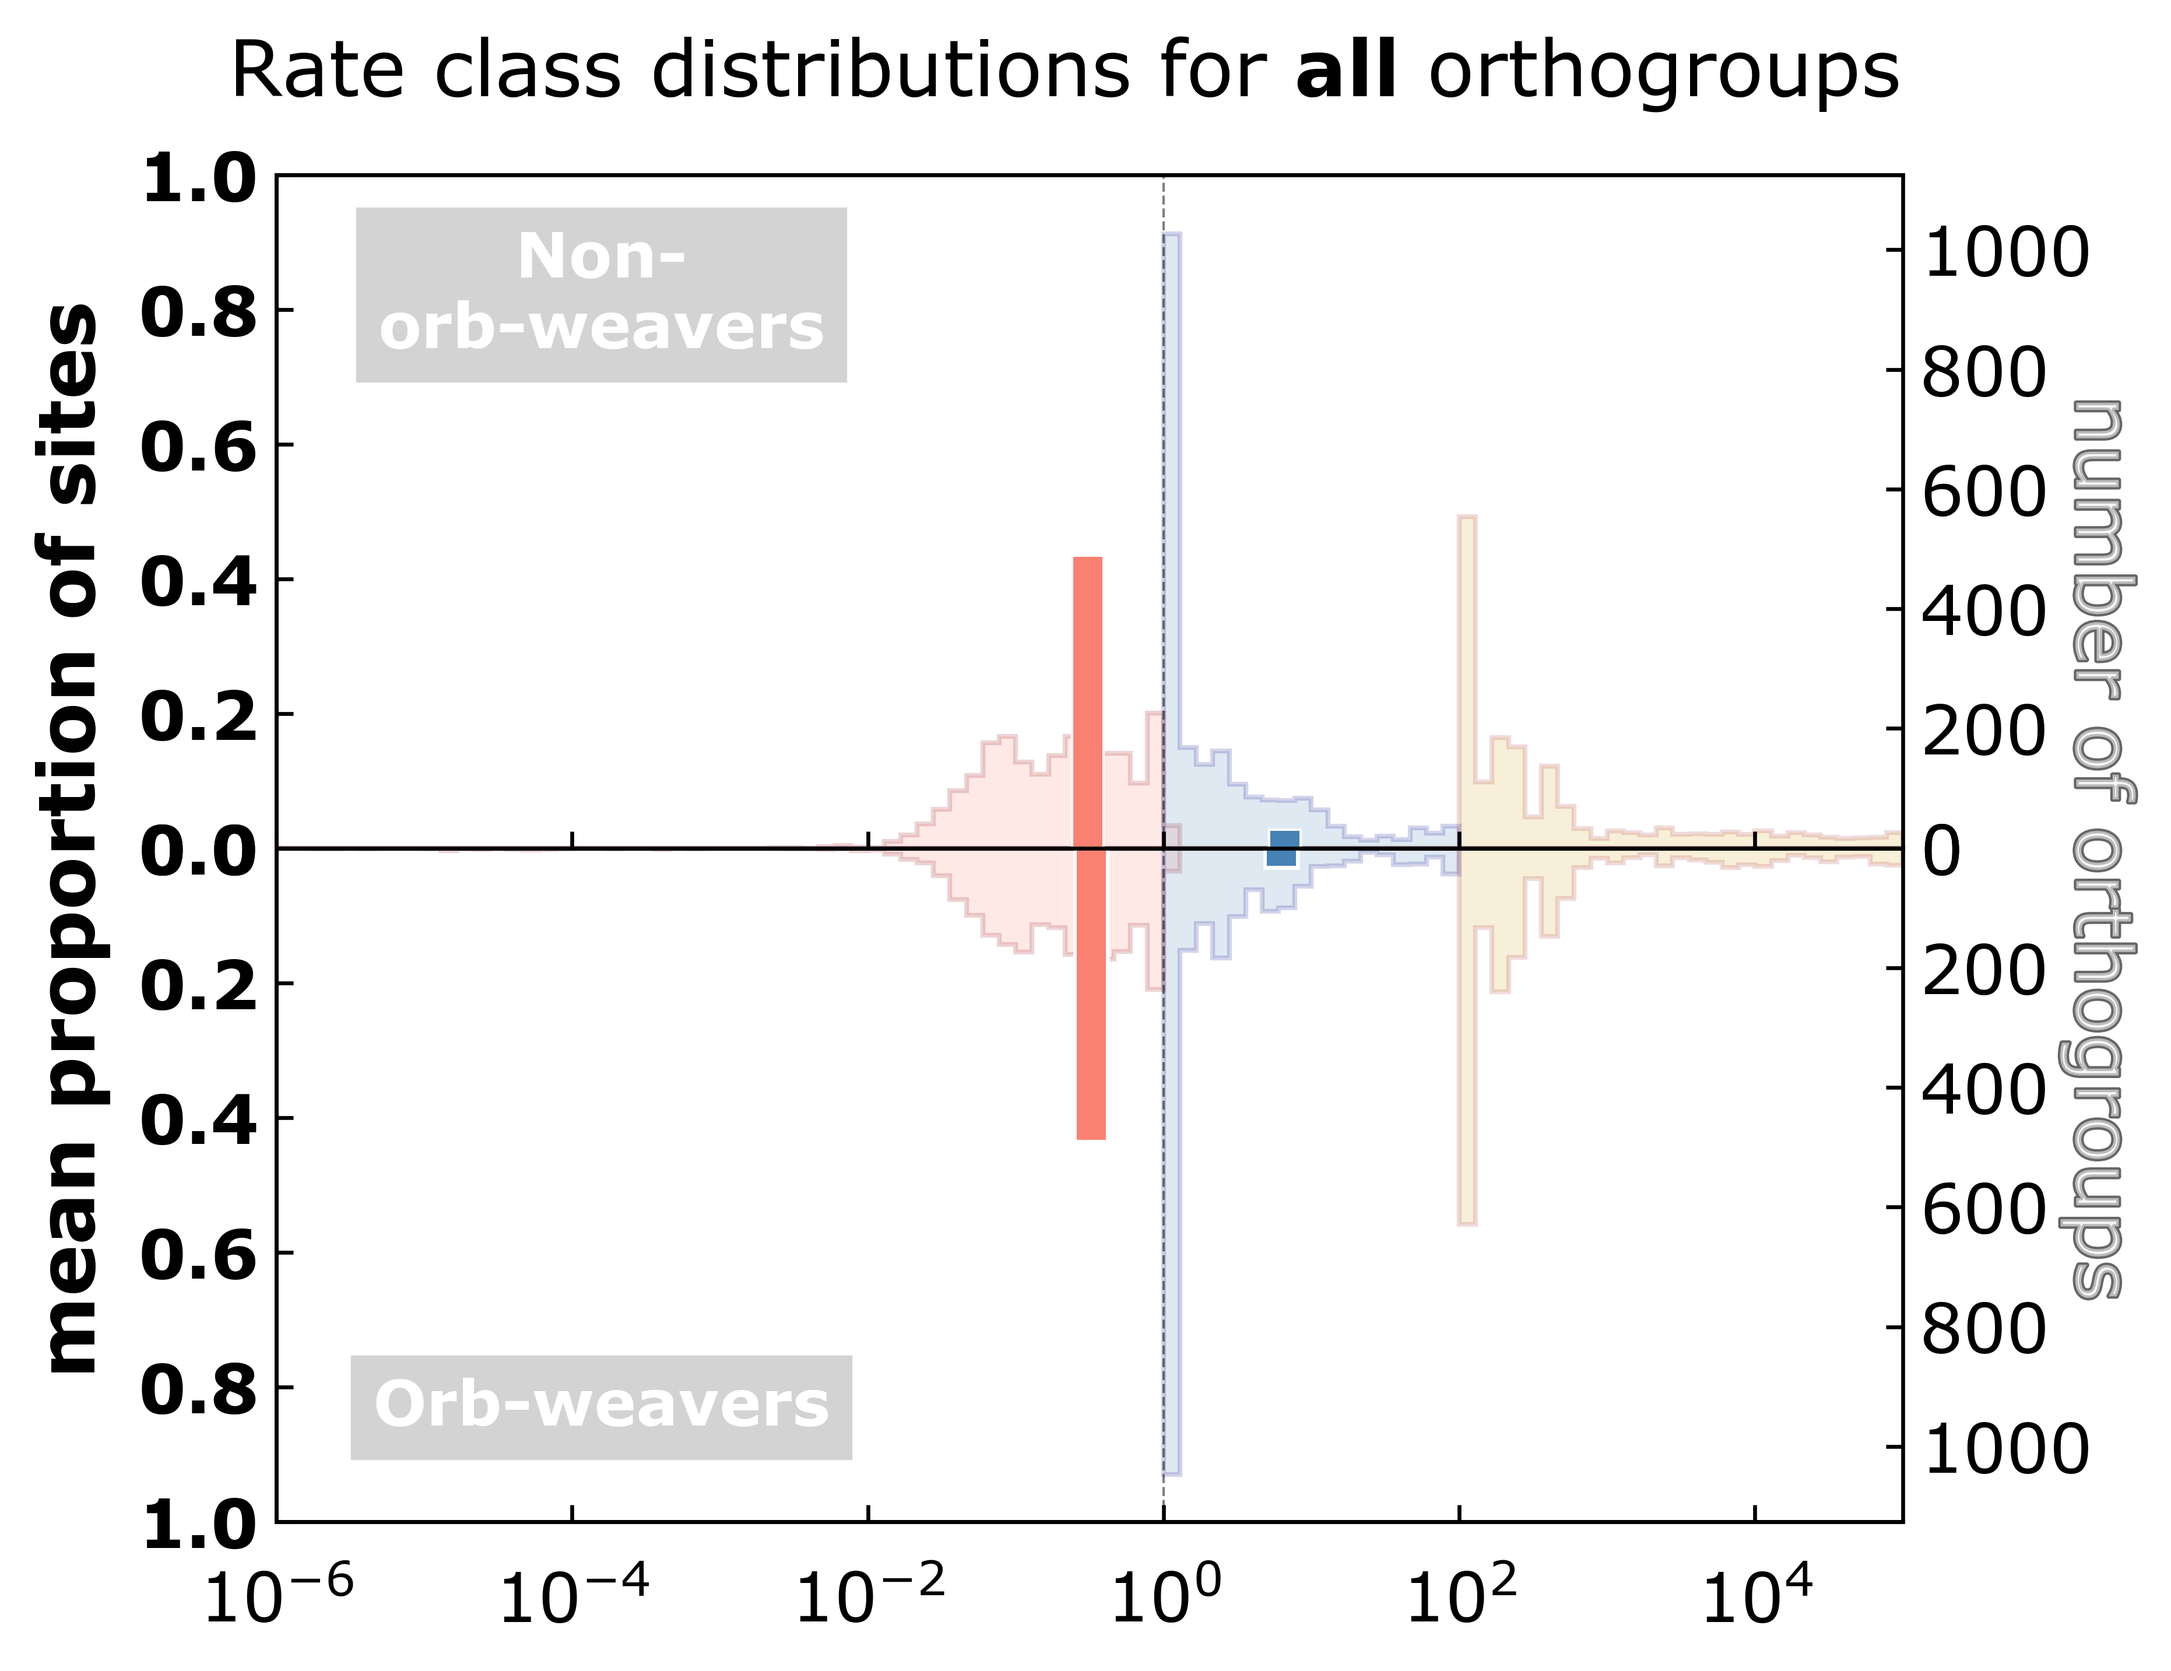
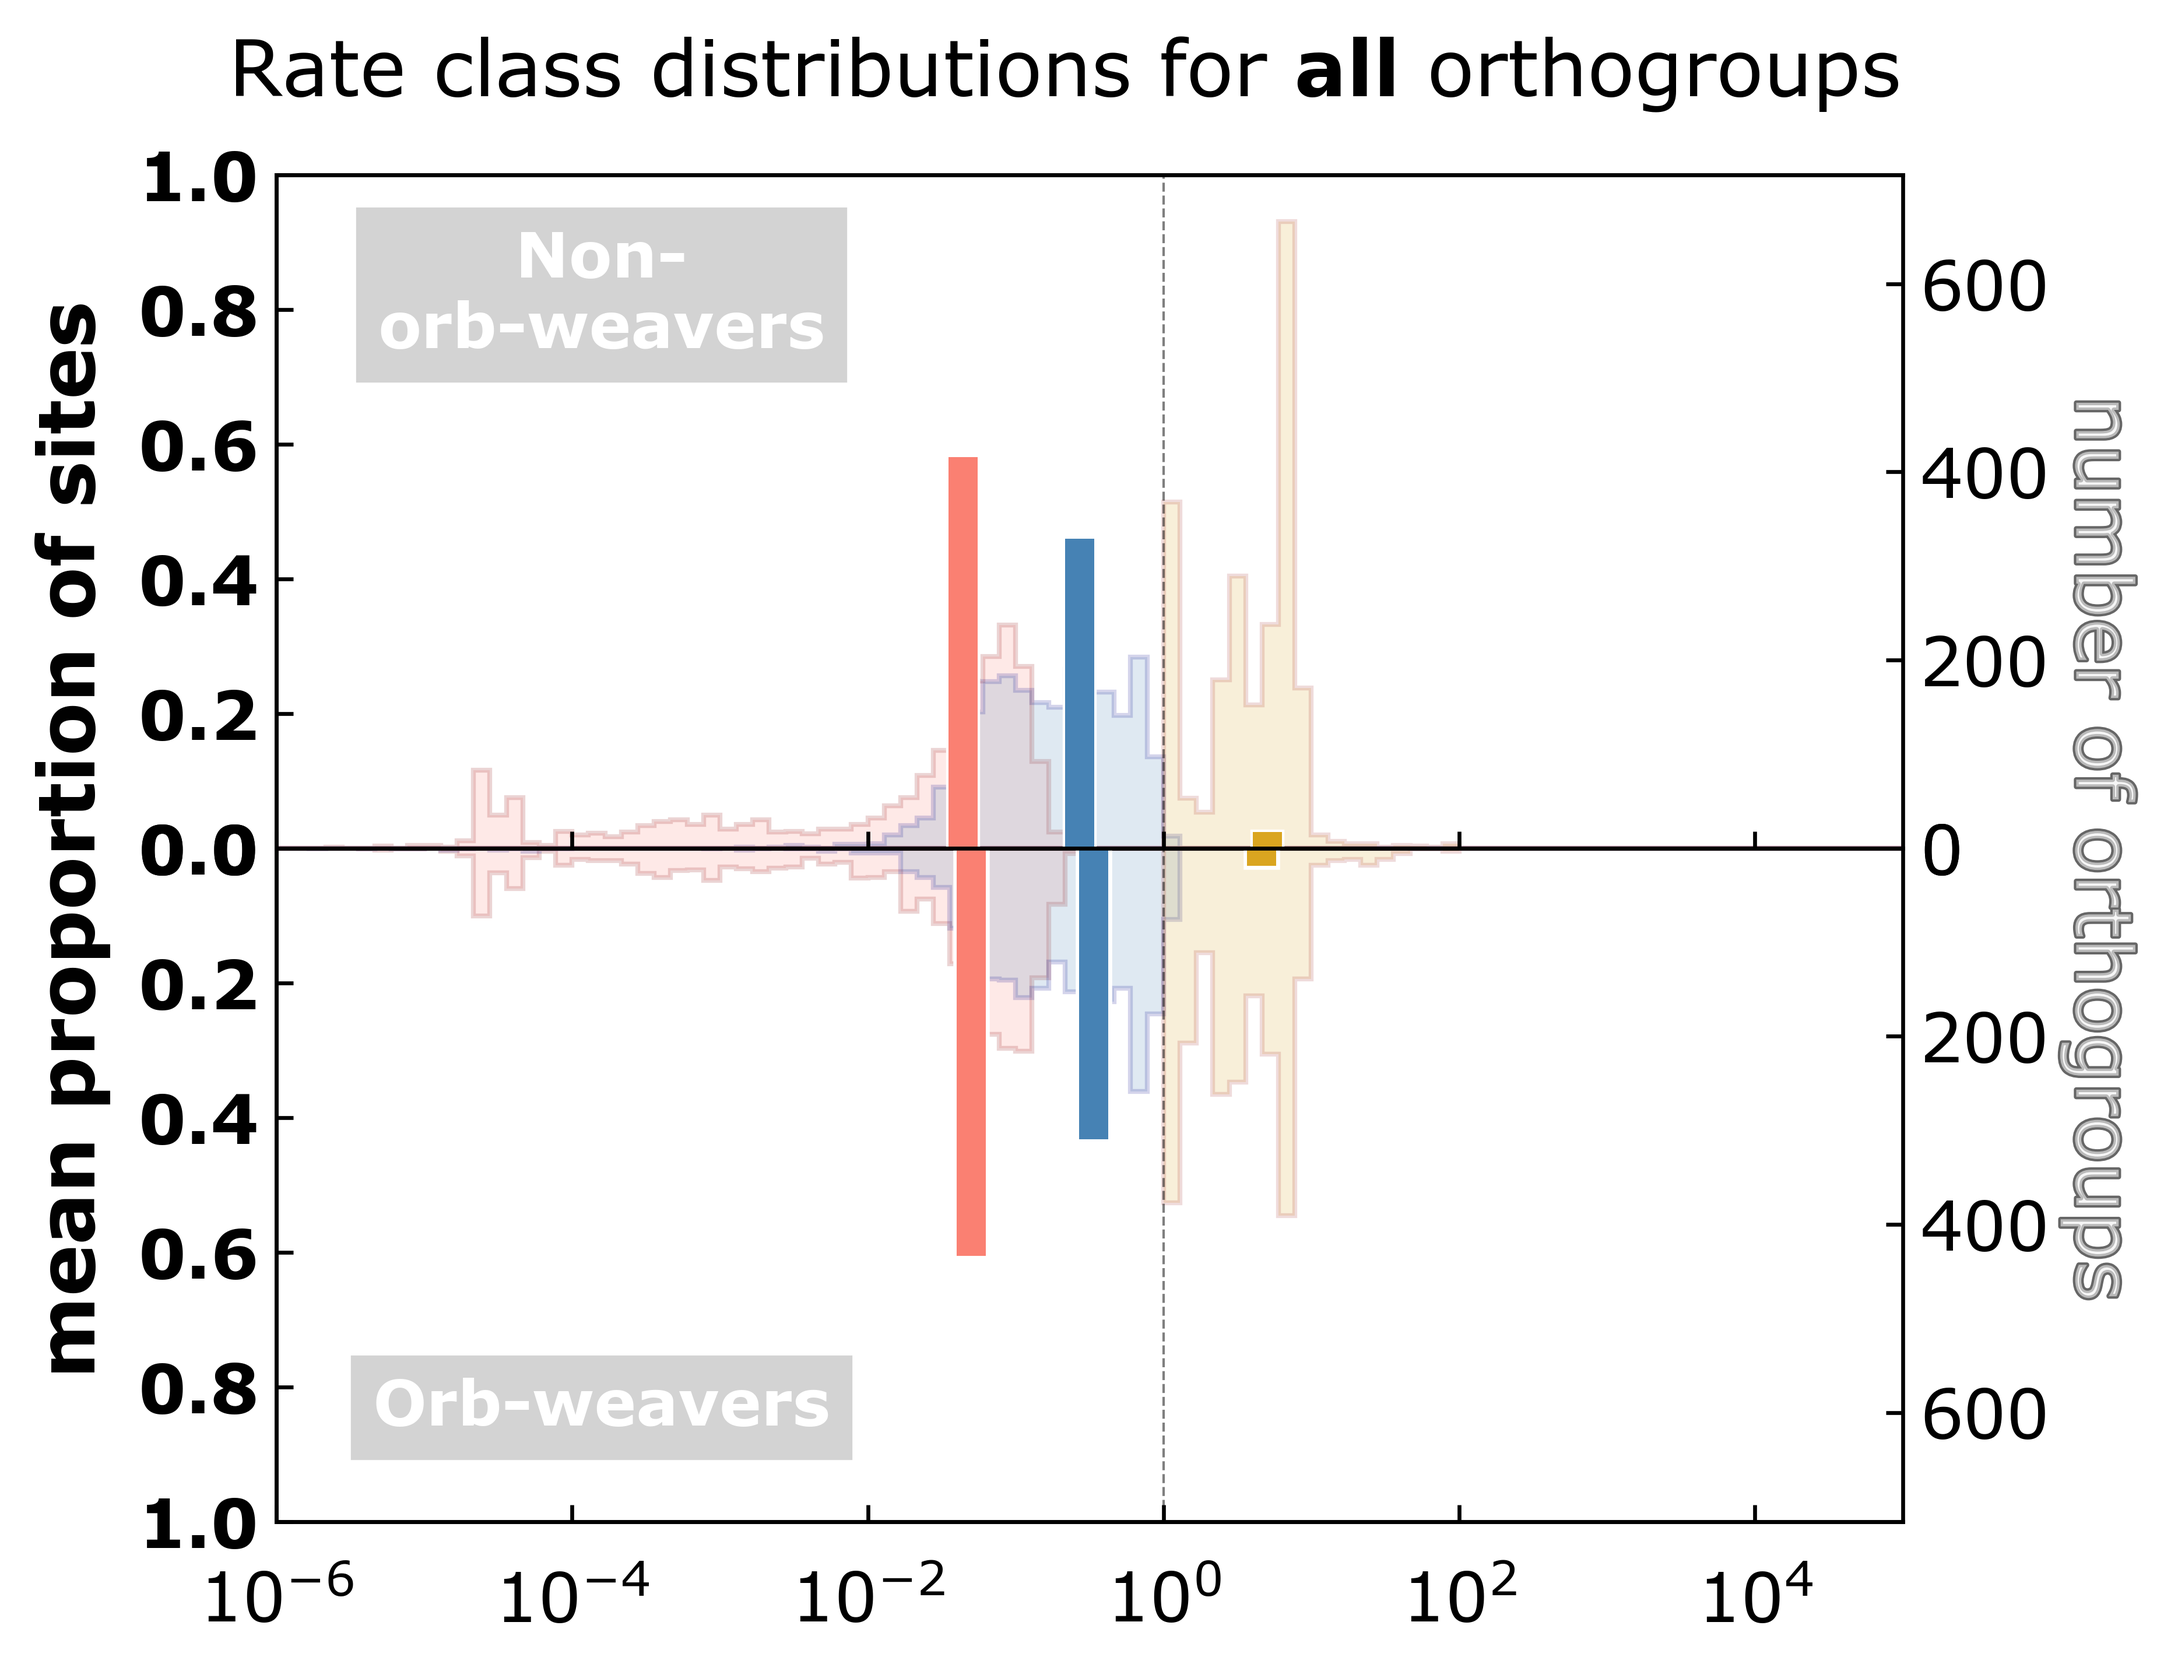
allow plotting partitioned descriptive model

diff --git a/scripts/07_figures_tables/omega_plots.py b/scripts/07_figures_tables/omega_plots.py
@@ -147,13 +147,20 @@ def plot_omega_distributions(
     xlim_min=0.001,
     shift_top_title=False,
     transparent=True,
+    groups=('test', 'ref'),
 ):
-    """Plot ω distributions and mean site proportions for test and reference."""
+    """Plot ω distributions and mean site proportions for test and reference.
+
+    `groups` names the test/reference column suffixes to plot, e.g. the default
+    ('test', 'ref') for the RELAX/BUSTED-PH alternative model, or
+    ('test_pd', 'ref_pd') for the RELAX partitioned descriptive model.
+    """
+    test_group, ref_group = groups
     logbins = np.geomspace(xlim_min, xlim_max, 100)
 
     y_limits = []
 
-    for group in ['test', 'ref']:
+    for group in groups:
         ω3_counts = np.histogram(x[f'ω3_{group}'], bins=logbins)[0]
         ω2_counts = np.histogram(x[f'ω2_{group}'], bins=logbins)[0]
 
@@ -174,13 +181,13 @@ def plot_omega_distributions(
     axs[1].set_ylim(0, np.max(y_limits))
     axs[1].invert_yaxis()
 
-    _plot_distributions(axs[0], x, 'test', logbins)
-    _plot_distributions(axs[1], x, 'ref', logbins, labels=True)
+    _plot_distributions(axs[0], x, test_group, logbins)
+    _plot_distributions(axs[1], x, ref_group, logbins, labels=True)
 
     ax_avgs = axs[0].twinx()
     ax_avgs.set_facecolor('none')
     _plot_mean_lines(
-        ax_avgs, x, 'test', stroke_width=7.5 if result == 'busted' else 7
+        ax_avgs, x, test_group, stroke_width=7.5 if result == 'busted' else 7
     )
     ax_avgs.spines.right.set_visible(False)
 
@@ -190,7 +197,7 @@ def plot_omega_distributions(
     _plot_mean_lines(
         ax_avgs2,
         x,
-        'ref',
+        ref_group,
         inverted=True,
         stroke_width=7 if result == 'busted' else 7.5,
     )
@@ -304,35 +311,42 @@ def plot_omega_single_gene(
     zorder_2test=1,
     zorder_3test=1,
     axis_fontsize=14,
+    groups=('test', 'ref'),
 ):
-    """Plot inferred ω values and site proportions for one gene."""
+    """Plot inferred ω values and site proportions for one gene.
+
+    `groups` names the test/reference column suffixes to plot, e.g. the default
+    ('test', 'ref') for the RELAX/BUSTED-PH alternative model, or
+    ('test_pd', 'ref_pd') for the RELAX partitioned descriptive model.
+    """
+    test_group, ref_group = groups
 
     x = df.loc[gene]
 
     fig, ax = plt.subplots(figsize=(5.5, 5))
 
     # Collapse numerical near-zero estimates so they share the zero position.
-    if x['ω1_ref'] < 1e-9:
-        x['ω1_ref'] = 0
+    if x[f'ω1_{ref_group}'] < 1e-9:
+        x[f'ω1_{ref_group}'] = 0
 
-    if x['ω1_test'] < 1e-9:
-        x['ω1_test'] = 0
+    if x[f'ω1_{test_group}'] < 1e-9:
+        x[f'ω1_{test_group}'] = 0
 
     omega_values = np.asarray([
-        x['ω1_ref'], x['ω2_ref'], x['ω3_ref'],
-        x['ω1_test'], x['ω2_test'], x['ω3_test'],
+        x[f'ω1_{ref_group}'], x[f'ω2_{ref_group}'], x[f'ω3_{ref_group}'],
+        x[f'ω1_{test_group}'], x[f'ω2_{test_group}'], x[f'ω3_{test_group}'],
     ])
     has_zero = np.any(omega_values == 0)
 
-    if np.min([x['ω2_ref'], x['ω2_test']]) > 0:
-        if np.min([x['ω1_ref'], x['ω1_test']]) > 0:
-            thresh = np.min([x['ω1_ref'], x['ω1_test']]) * 0.1
-        elif np.max([x['ω1_ref'], x['ω1_test']]) > 0:
-            thresh = np.max([x['ω1_ref'], x['ω1_test']]) * 0.1
+    if np.min([x[f'ω2_{ref_group}'], x[f'ω2_{test_group}']]) > 0:
+        if np.min([x[f'ω1_{ref_group}'], x[f'ω1_{test_group}']]) > 0:
+            thresh = np.min([x[f'ω1_{ref_group}'], x[f'ω1_{test_group}']]) * 0.1
+        elif np.max([x[f'ω1_{ref_group}'], x[f'ω1_{test_group}']]) > 0:
+            thresh = np.max([x[f'ω1_{ref_group}'], x[f'ω1_{test_group}']]) * 0.1
         else:
-            thresh = np.min([x['ω2_ref'], x['ω2_test']]) * 0.1
-    elif np.max([x['ω2_ref'], x['ω2_test']]) > 0:
-        thresh = np.max([x['ω2_ref'], x['ω2_test']]) * 0.1
+            thresh = np.min([x[f'ω2_{ref_group}'], x[f'ω2_{test_group}']]) * 0.1
+    elif np.max([x[f'ω2_{ref_group}'], x[f'ω2_{test_group}']]) > 0:
+        thresh = np.max([x[f'ω2_{ref_group}'], x[f'ω2_{test_group}']]) * 0.1
     else:
         thresh = 0.01
 
@@ -359,9 +373,9 @@ def plot_omega_single_gene(
     ]
 
     ax.vlines(
-        x['ω1_ref'],
+        x[f'ω1_{ref_group}'],
         0,
-        _visible_proportion(x['ω1_ref_P'], ax),
+        _visible_proportion(x[f'ω1_{ref_group}_P'], ax),
         linewidth=20,
         color='salmon',
         alpha=0.17,
@@ -371,12 +385,12 @@ def plot_omega_single_gene(
         ),
     )
     _plot_tiny_proportion_marker(
-        ax, x['ω1_ref'], x['ω1_ref_P'], 'salmon', alpha=0.17
+        ax, x[f'ω1_{ref_group}'], x[f'ω1_{ref_group}_P'], 'salmon', alpha=0.17
     )
     ax.vlines(
-        x['ω2_ref'],
+        x[f'ω2_{ref_group}'],
         0,
-        _visible_proportion(x['ω2_ref_P'], ax),
+        _visible_proportion(x[f'ω2_{ref_group}_P'], ax),
         linewidth=20,
         color='steelblue',
         alpha=0.17,
@@ -386,12 +400,12 @@ def plot_omega_single_gene(
         ),
     )
     _plot_tiny_proportion_marker(
-        ax, x['ω2_ref'], x['ω2_ref_P'], 'steelblue', alpha=0.17
+        ax, x[f'ω2_{ref_group}'], x[f'ω2_{ref_group}_P'], 'steelblue', alpha=0.17
     )
     ax.vlines(
-        x['ω3_ref'],
+        x[f'ω3_{ref_group}'],
         0,
-        _visible_proportion(x['ω3_ref_P'], ax),
+        _visible_proportion(x[f'ω3_{ref_group}_P'], ax),
         linewidth=20,
         color='goldenrod',
         alpha=0.17,
@@ -399,7 +413,7 @@ def plot_omega_single_gene(
         path_effects=ref_path_effects
     )
     _plot_tiny_proportion_marker(
-        ax, x['ω3_ref'], x['ω3_ref_P'], 'goldenrod', alpha=0.3
+        ax, x[f'ω3_{ref_group}'], x[f'ω3_{ref_group}_P'], 'goldenrod', alpha=0.3
     )
 
     test_alpha = 1
@@ -408,9 +422,9 @@ def plot_omega_single_gene(
     ]
 
     ax.vlines(
-        x['ω1_test'],
+        x[f'ω1_{test_group}'],
         0,
-        _visible_proportion(x['ω1_test_P'], ax),
+        _visible_proportion(x[f'ω1_{test_group}_P'], ax),
         linewidth=20,
         color='salmon',
         alpha=test_alpha,
@@ -418,12 +432,12 @@ def plot_omega_single_gene(
         path_effects=test_effects,
     )
     _plot_tiny_proportion_marker(
-        ax, x['ω1_test'], x['ω1_test_P'], 'salmon', alpha=1
+        ax, x[f'ω1_{test_group}'], x[f'ω1_{test_group}_P'], 'salmon', alpha=1
     )
     ax.vlines(
-        x['ω2_test'],
+        x[f'ω2_{test_group}'],
         0,
-        _visible_proportion(x['ω2_test_P'], ax),
+        _visible_proportion(x[f'ω2_{test_group}_P'], ax),
         linewidth=20,
         color='steelblue',
         alpha=test_alpha,
@@ -431,12 +445,12 @@ def plot_omega_single_gene(
         path_effects=test_effects,
     )
     _plot_tiny_proportion_marker(
-        ax, x['ω2_test'], x['ω2_test_P'], 'steelblue', alpha=1
+        ax, x[f'ω2_{test_group}'], x[f'ω2_{test_group}_P'], 'steelblue', alpha=1
     )
     ax.vlines(
-        x['ω3_test'],
+        x[f'ω3_{test_group}'],
         0,
-        _visible_proportion(x['ω3_test_P'], ax),
+        _visible_proportion(x[f'ω3_{test_group}_P'], ax),
         linewidth=20,
         color='goldenrod',
         alpha=test_alpha,
@@ -444,7 +458,7 @@ def plot_omega_single_gene(
         path_effects=test_effects,
     )
     _plot_tiny_proportion_marker(
-        ax, x['ω3_test'], x['ω3_test_P'], 'goldenrod', alpha=1
+        ax, x[f'ω3_{test_group}'], x[f'ω3_{test_group}_P'], 'goldenrod', alpha=1
     )
 
     if not has_zero:
@@ -544,15 +558,19 @@ def plot_omega_single_gene(
         plt.savefig(filename, dpi=300, transparent=transparent)
 
     print(
-        f"ω values for {gene}: ω1_test={x['ω1_test']:.4f}, "
-        f"ω2_test={x['ω2_test']:.4f}, ω3_test={x['ω3_test']:.4f},\n"
-        f"ω1_ref={x['ω1_ref']:.4f}, ω2_ref={x['ω2_ref']:.4f}, "
-        f"ω3_ref={x['ω3_ref']:.4f};\n"
-        f"Proportions: ω1_test_P={x['ω1_test_P']:.4f}, "
-        f"ω2_test_P={x['ω2_test_P']:.4f}, "
-        f"ω3_test_P={x['ω3_test_P']:.4f},\n"
-        f"ω1_ref_P={x['ω1_ref_P']:.4f}, ω2_ref_P={x['ω2_ref_P']:.4f}, "
-        f"ω3_ref_P={x['ω3_ref_P']:.4f}"
+        f"ω values for {gene}: "
+        f"ω1_{test_group}={x[f'ω1_{test_group}']:.4f}, "
+        f"ω2_{test_group}={x[f'ω2_{test_group}']:.4f}, "
+        f"ω3_{test_group}={x[f'ω3_{test_group}']:.4f},\n"
+        f"ω1_{ref_group}={x[f'ω1_{ref_group}']:.4f}, "
+        f"ω2_{ref_group}={x[f'ω2_{ref_group}']:.4f}, "
+        f"ω3_{ref_group}={x[f'ω3_{ref_group}']:.4f};\n"
+        f"Proportions: ω1_{test_group}_P={x[f'ω1_{test_group}_P']:.4f}, "
+        f"ω2_{test_group}_P={x[f'ω2_{test_group}_P']:.4f}, "
+        f"ω3_{test_group}_P={x[f'ω3_{test_group}_P']:.4f},\n"
+        f"ω1_{ref_group}_P={x[f'ω1_{ref_group}_P']:.4f}, "
+        f"ω2_{ref_group}_P={x[f'ω2_{ref_group}_P']:.4f}, "
+        f"ω3_{ref_group}_P={x[f'ω3_{ref_group}_P']:.4f}"
     )
 
     return fig, ax
